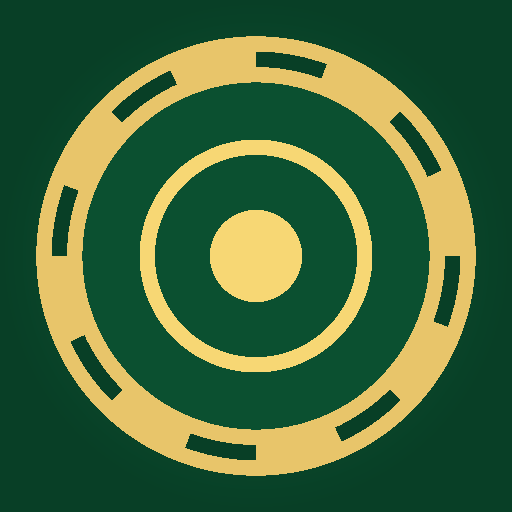
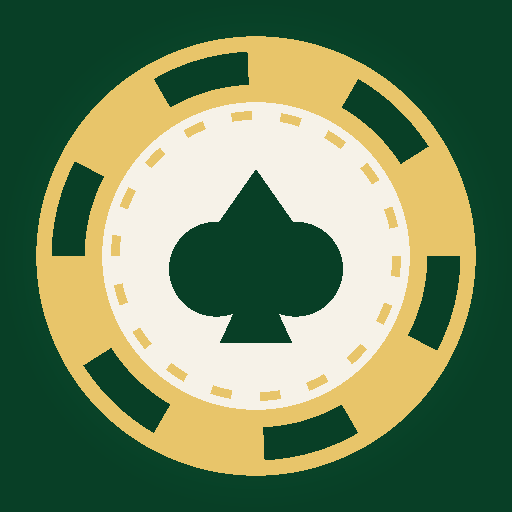
Las fichas se ven como fichas de verdad
Eran círculos planos de color con un número encima. Ahora llevan la anatomía real:
cuerpo del color, muescas en el canto, anillo punteado y disco central claro.
Se dibujan en SVG para que el detalle aguante igual a 28 px que a 34.

En el centro se queda el VALOR, no un palo: en la mesa lo que necesitas saber de
un vistazo es cuánto vale ese montón, y las fichas de una misma casa se distinguen
por denominación, no por palo.

Las muescas se oscurecen sobre fichas claras; en las blancas, unas muescas blancas
no se verían.

El ícono de la app y el favicon pasan a ser la misma ficha, y ahí sí con una pica
en el centro: el ícono no representa una denominación sino la app entera.

diff --git a/src/components/Chip.tsx b/src/components/Chip.tsx
@@ -3,27 +3,81 @@ import type { ChipColor } from '../store/types'
 
 interface Props {
   color: ChipColor
-  /** Tamaño en píxeles del círculo. */
+  /** Diámetro en píxeles. */
   size?: number
 }
 
-/** La ficha física: círculo del color con su valor y el borde punteado del canto. */
+/*
+ * Ficha de póker de verdad, no un círculo de color: cuerpo del color, muescas en el
+ * canto, anillo punteado y disco central claro.
+ *
+ * En el centro va el VALOR, no un palo: en la mesa lo que necesitas saber de un
+ * vistazo es cuánto vale ese montón. Se dibuja en SVG para que los detalles aguanten
+ * igual a 28 px que a 34.
+ */
+
+// 6 muescas repartidas en el canto. El radio del trazo es 44 y su circunferencia
+// 2π·44 ≈ 276.5, así que cada muesca + hueco mide 276.5 / 6 ≈ 46.1.
+const RADIO_CANTO = 44
+const MUESCAS = 6
+const PASO = (2 * Math.PI * RADIO_CANTO) / MUESCAS
+const LARGO_MUESCA = PASO * 0.46
+
 export default function Chip({ color, size = 28 }: Props) {
-  const fg = textOn(color.color)
+  const contraste = textOn(color.color)
+  // Sobre fichas claras las muescas blancas desaparecerían; ahí van oscuras.
+  const muesca = contraste === '#ffffff' ? 'rgba(255,255,255,.92)' : 'rgba(0,0,0,.35)'
+
   return (
-    <span
+    <svg
+      viewBox="0 0 100 100"
+      width={size}
+      height={size}
       aria-hidden="true"
-      className="flex shrink-0 items-center justify-center rounded-full border-2 border-dashed font-display font-bold shadow-[0_2px_4px_rgba(0,0,0,.25),inset_0_0_0_2px_rgba(0,0,0,.08)]"
-      style={{
-        width: size,
-        height: size,
-        fontSize: Math.round(size * 0.4),
-        background: color.color,
-        color: fg,
-        borderColor: fg === '#222222' ? 'rgba(0,0,0,.2)' : 'rgba(255,255,255,.85)',
-      }}
+      className="shrink-0 drop-shadow-[0_2px_3px_rgba(0,0,0,.3)]"
     >
-      {color.value}
-    </span>
+      {/* cuerpo */}
+      <circle cx="50" cy="50" r="48" fill={color.color} />
+      <circle cx="50" cy="50" r="48" fill="none" stroke="rgba(0,0,0,.22)" strokeWidth="2" />
+
+      {/* muescas del canto */}
+      <circle
+        cx="50"
+        cy="50"
+        r={RADIO_CANTO}
+        fill="none"
+        stroke={muesca}
+        strokeWidth="12"
+        strokeDasharray={`${LARGO_MUESCA} ${PASO - LARGO_MUESCA}`}
+      />
+
+      {/* disco central */}
+      <circle cx="50" cy="50" r="31" fill="#f6f2e8" />
+      <circle cx="50" cy="50" r="31" fill="none" stroke="rgba(0,0,0,.15)" strokeWidth="1.5" />
+
+      {/* anillo punteado, el detalle que la hace leer como ficha */}
+      <circle
+        cx="50"
+        cy="50"
+        r="36"
+        fill="none"
+        stroke={muesca}
+        strokeWidth="2"
+        strokeDasharray="3 4"
+      />
+
+      <text
+        x="50"
+        y="50"
+        textAnchor="middle"
+        dominantBaseline="central"
+        fontFamily="Oswald, Arial Narrow, sans-serif"
+        fontWeight="700"
+        fontSize={String(color.value).length > 2 ? 30 : 38}
+        fill="#20281f"
+      >
+        {color.value}
+      </text>
+    </svg>
   )
 }
